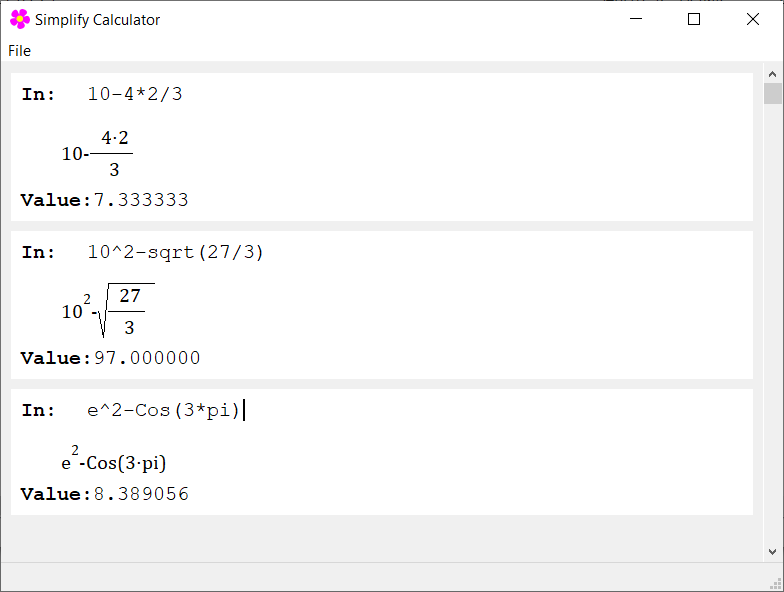
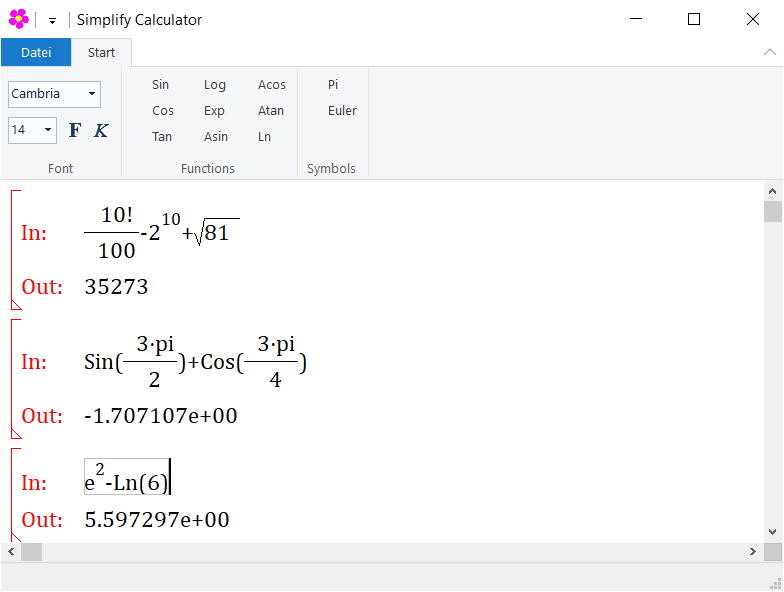
change paint behevior

diff --git a/SimplifyCalculator/src/panel.c b/SimplifyCalculator/src/panel.c
@@ -126,12 +126,28 @@ static void OnPaint(Panel* p, HDC hdc)
 	FillRect(hdc, &rc, (HBRUSH)(COLOR_WINDOWFRAME));
 
 	HFONT hOldFont = SelectObject(hdc,  g_math_font);
+	SelectObject(hdc, GetStockObject(DC_PEN));
 
 	{
+		SetDCPenColor(hdc, RGB(255, 0, 0));
+		MoveToEx(hdc, p->_x0, p->_y0, NULL);
+		LineTo(hdc, p->_x0, p->_y0 + p->_height);
+		LineTo(hdc, p->_x0 + 10, p->_y0 + p->_height);
+		LineTo(hdc, p->_x0, p->_y0 + p->_height - p->_x0);
+		MoveToEx(hdc, p->_x0, p->_y0, NULL);
+		LineTo(hdc, p->_x0 + 10, p->_y0);
+		SetDCPenColor(hdc, RGB(0, 0, 0));
+	}
+
+	{
+		SetTextColor(hdc, RGB(255, 0, 0));
+
 		TextOut(hdc, p->_x0 + g_margin_v, p->_y0 + g_margin_h + 
 			max(p->_in_baseLine, g_in_str_height / 2) - g_in_str_height / 2, g_in_str, (int)wcslen(g_in_str));
 		TextOut(hdc, p->_x0 + g_margin_v, p->_y0 + 2 * g_margin_h + max(p->_in_height, g_in_str_height) + 
 			max(p->_out_baseLine, g_out_str_height / 2) - g_out_str_height / 2, g_out_str, (int)wcslen(g_out_str));
+
+		SetTextColor(hdc, RGB(0, 0, 0));
 	}
 
 	if(p->_in_items)

diff --git a/SimplifyCalculator/src/main_wnd.c b/SimplifyCalculator/src/main_wnd.c
@@ -676,7 +676,7 @@ static void OnPaint(MainWindow* mw)
     PAINTSTRUCT ps;
     HDC hdc = BeginPaint(mw->_baseWindow._hWnd, &ps);
 
-    FillRect(hdc, &ps.rcPaint, (HBRUSH)(COLOR_WINDOW));
+    FillRect(hdc, &ps.rcPaint, (HBRUSH)(COLOR_WINDOWFRAME));
 
     mw->_panels->_OnPaintFunc(mw->_panels, hdc, &ps.rcPaint);
     
